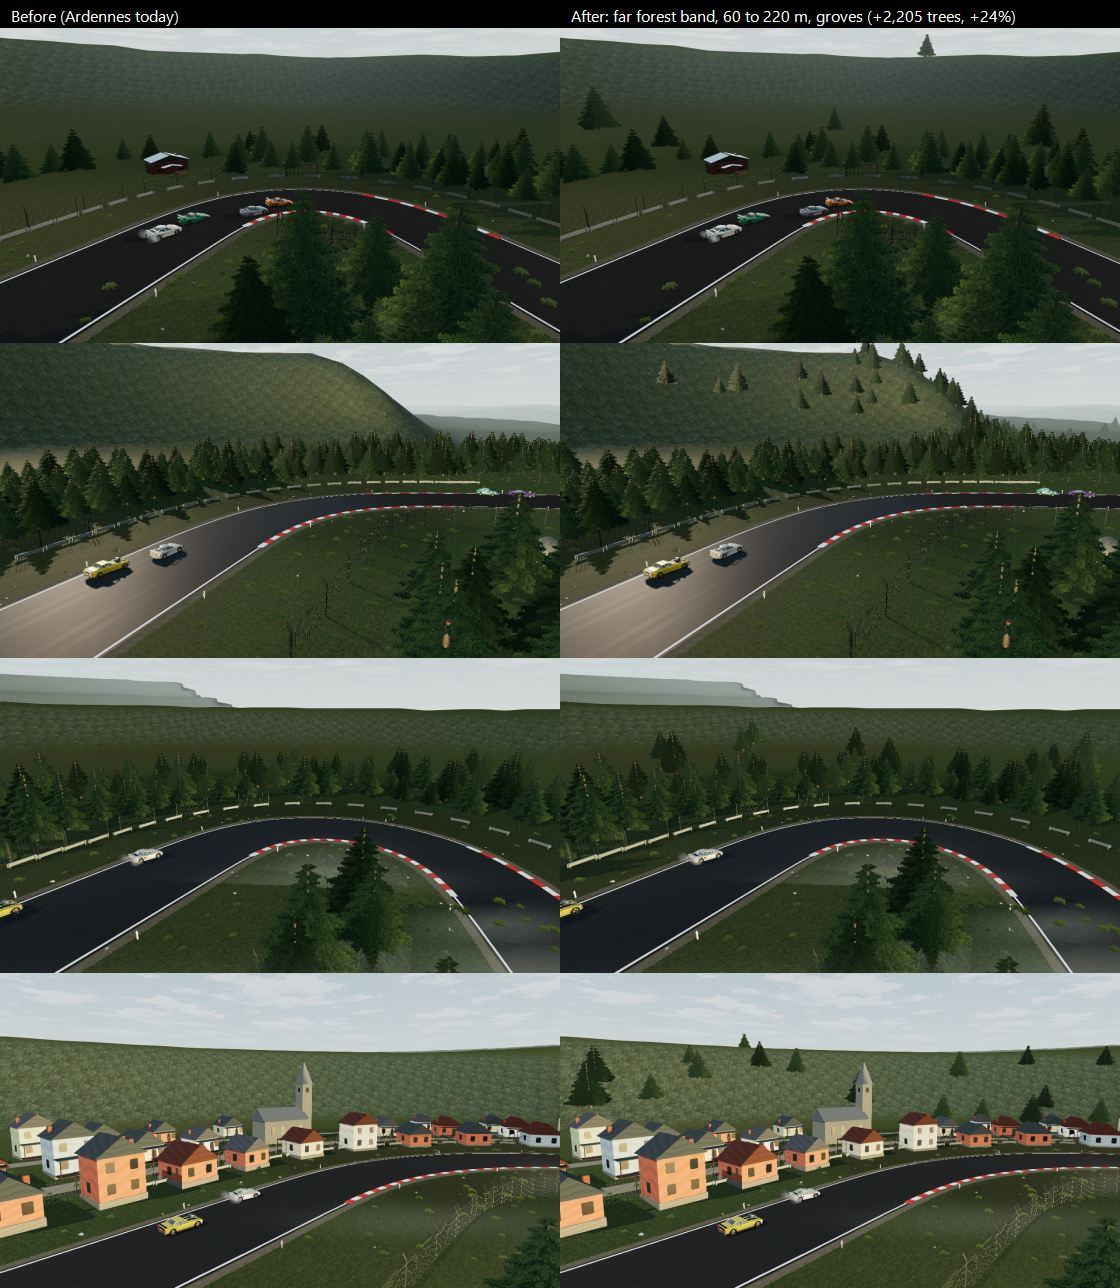
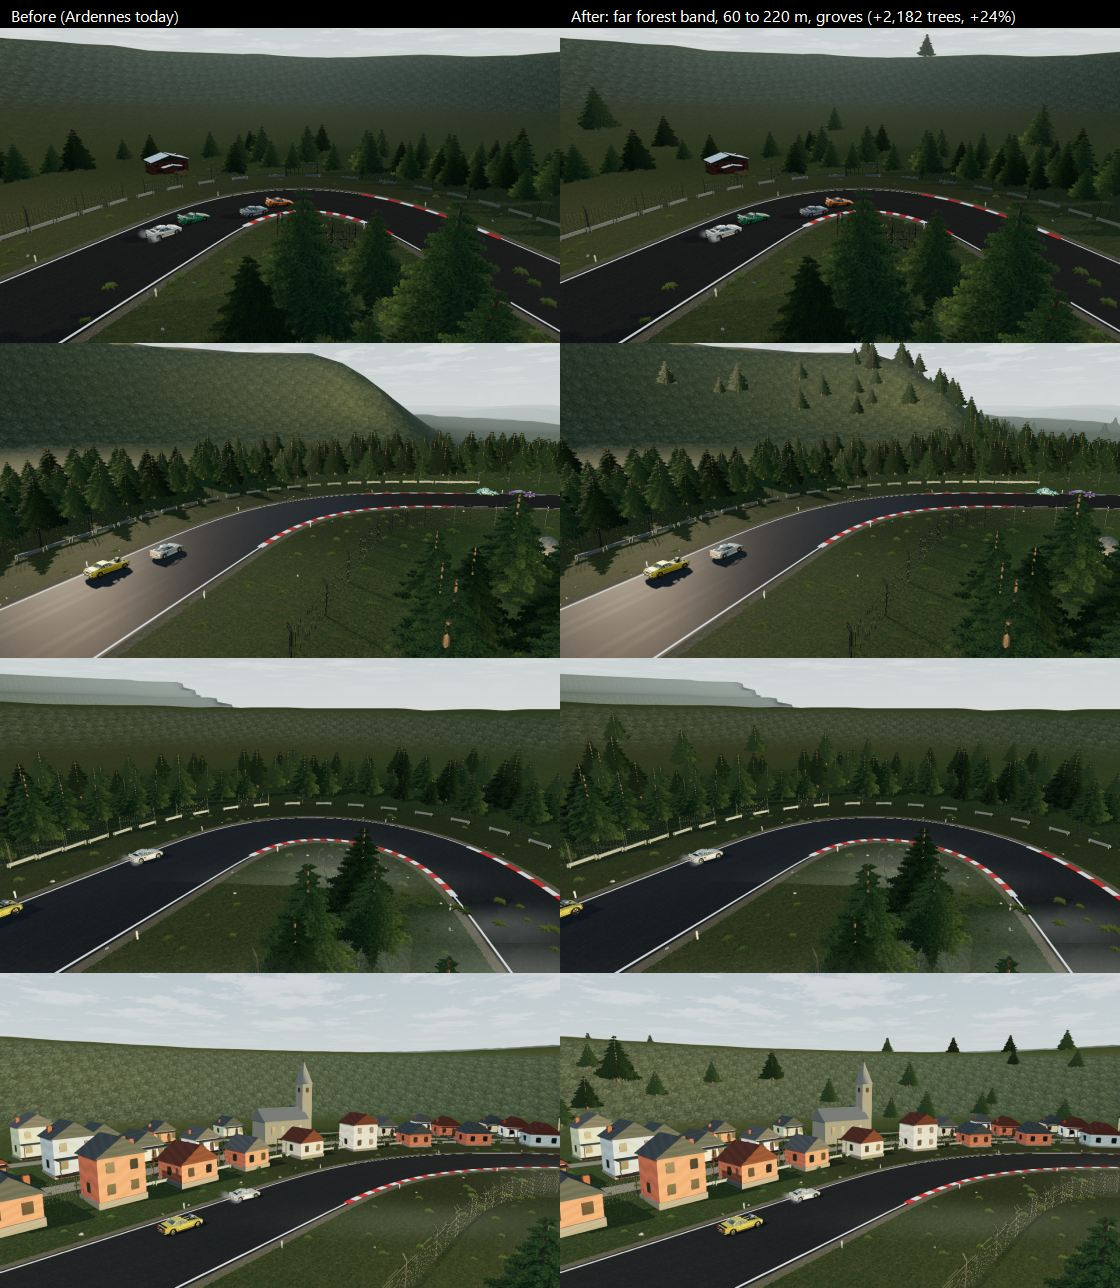
ARDENNES-FAR-FOREST: far trees measured from the nearest road (review fix)
The 220 m band can reach toward other stretches of the circuit, so each
far tree must also be 60 m from the nearest road's edge and outside the
clear stretches as seen from it: 23 trees by the paddock, the grandstand or
another road's catch fence are gone (2,182 far trees, +23.9%). Test checks
both roads; signature and sheet recaptured; note corrected.

diff --git a/src/track-script-course.js b/src/track-script-course.js
@@ -260,6 +260,14 @@ function scatterScenery(course) {
       }
       if (!roadClear(s, off, 0, 1) || cleared(s, off, 2.5 * scale) || zones.length && ownClear(s, off, 2.5 * scale)) continue;
       const p = course.groundAt(s, off);
+      // A far band reaches across to other stretches of the circuit, so it is
+      // also measured from the nearest road: at least `from` beyond its edge,
+      // and outside the clear stretches as seen from that road.
+      if (drawnGround) {
+        const n = course.nearest(p.x, p.z);
+        if (n.distance - course.roadHalfWidthAt(n.s) < from || cleared(n.s, n.lateral, 2.5 * scale) ||
+          zones.length && ownClear(n.s, n.lateral, 2.5 * scale)) continue;
+      }
       if (crowded(p.x, p.z, 3.2 * scale)) continue;
       claim(p.x, p.z);
       const tree = add(`${prefix}-${serial++}`, 'tree', s, off, .23 * scale, .23 * scale, random.range(0, TAU), { scale });

diff --git a/docs/changes/ARDENNES-FAR-FOREST.md b/docs/changes/ARDENNES-FAR-FOREST.md
@@ -16,7 +16,12 @@ forest band (firs 23 to 60 m past the road edge) the hills were bare grass.
   avoids spots the first band already took. Far trees stand on the drawn
   ground (`renderedGroundHeight`), because beyond the first band the course's
   own ground differs from the drawn far terrain by about 2 m on average and
-  up to 55 m. They are marked `farForest: true`.
+  by over 100 m in places. They are marked `farForest: true`. Because the band reaches
+  220 m, it can cross toward other stretches of the circuit, so each far
+  tree is also measured from the nearest road: at least 60 m beyond its
+  edge and outside the clear stretches as seen from that road (the review
+  found 23 trees by the paddock, the grandstand or another road's catch
+  fence before this rule).
 - `src/vegetation.js`: `beechTreePlacements` skips far-band trees, so the
   beech set is the accepted one.
 - `src/circuits/ardennes-forest.js`: a far band from 60 to 220 m, one row
@@ -30,13 +35,13 @@ forest band (firs 23 to 60 m past the road edge) the hills were bare grass.
 
 ## Numbers
 
-- Trees: 9,131 before (191 of them drawn as beeches), 11,336 after: 2,205
-  far trees, +24.1%. Every earlier tree is identical in name, position,
+- Trees: 9,131 before (191 of them drawn as beeches), 11,313 after: 2,182
+  far trees, +23.9%. Every earlier tree is identical in name, position,
   height, scale and tint; the 191 beeches are identical.
-- World signature (Ardennes only): instances 35,277 to 39,687 (+4,410, a
+- World signature (Ardennes only): instances 35,277 to 39,641 (+4,364, a
   trunk and a crown per far tree), meshes 1,243 to 1,313 and nodes 1,302 to
   1,372 (35 new vegetation cells, two meshes each); geometries 250,
-  materials 157 and textures 84 unchanged. Hash 5a96dada to 759f7ad3. Every
+  materials 157 and textures 84 unchanged. Hash 5a96dada to 1882d745. Every
   other course's signature is exact.
 
 ## Pictures
@@ -55,10 +60,14 @@ band (no tree cost), as its own card.
 
 - `tools/test-circuit-ardennes.mjs`, three new tests: the first band and the
   beeches are identical with and without the far band, and the far band is
-  planted after every earlier tree; far trees keep every keep-clear rule and
-  stand on the drawn ground; a course without a far band has none.
+  planted after every earlier tree; far trees keep every keep-clear rule,
+  measured from both their own road and the nearest road, and stand on the
+  drawn ground; a course without a far band has none.
 - No existing assertion changed.
-- Lane tier, build and review: see the merge's run-log line.
+- One independent review: one real fault (looks only), fixed as above;
+  low-risk notes: two far trees stood 1.5 m behind a solid catch fence
+  (now gone with the 60 m rule), and collision checks scan about 24% more
+  trees. Lane tier and build: see the merge's run-log line.
 - Frame check (rule 8): waits for a quiet laptop; see the run-log line.
 
 ## Found, not changed
